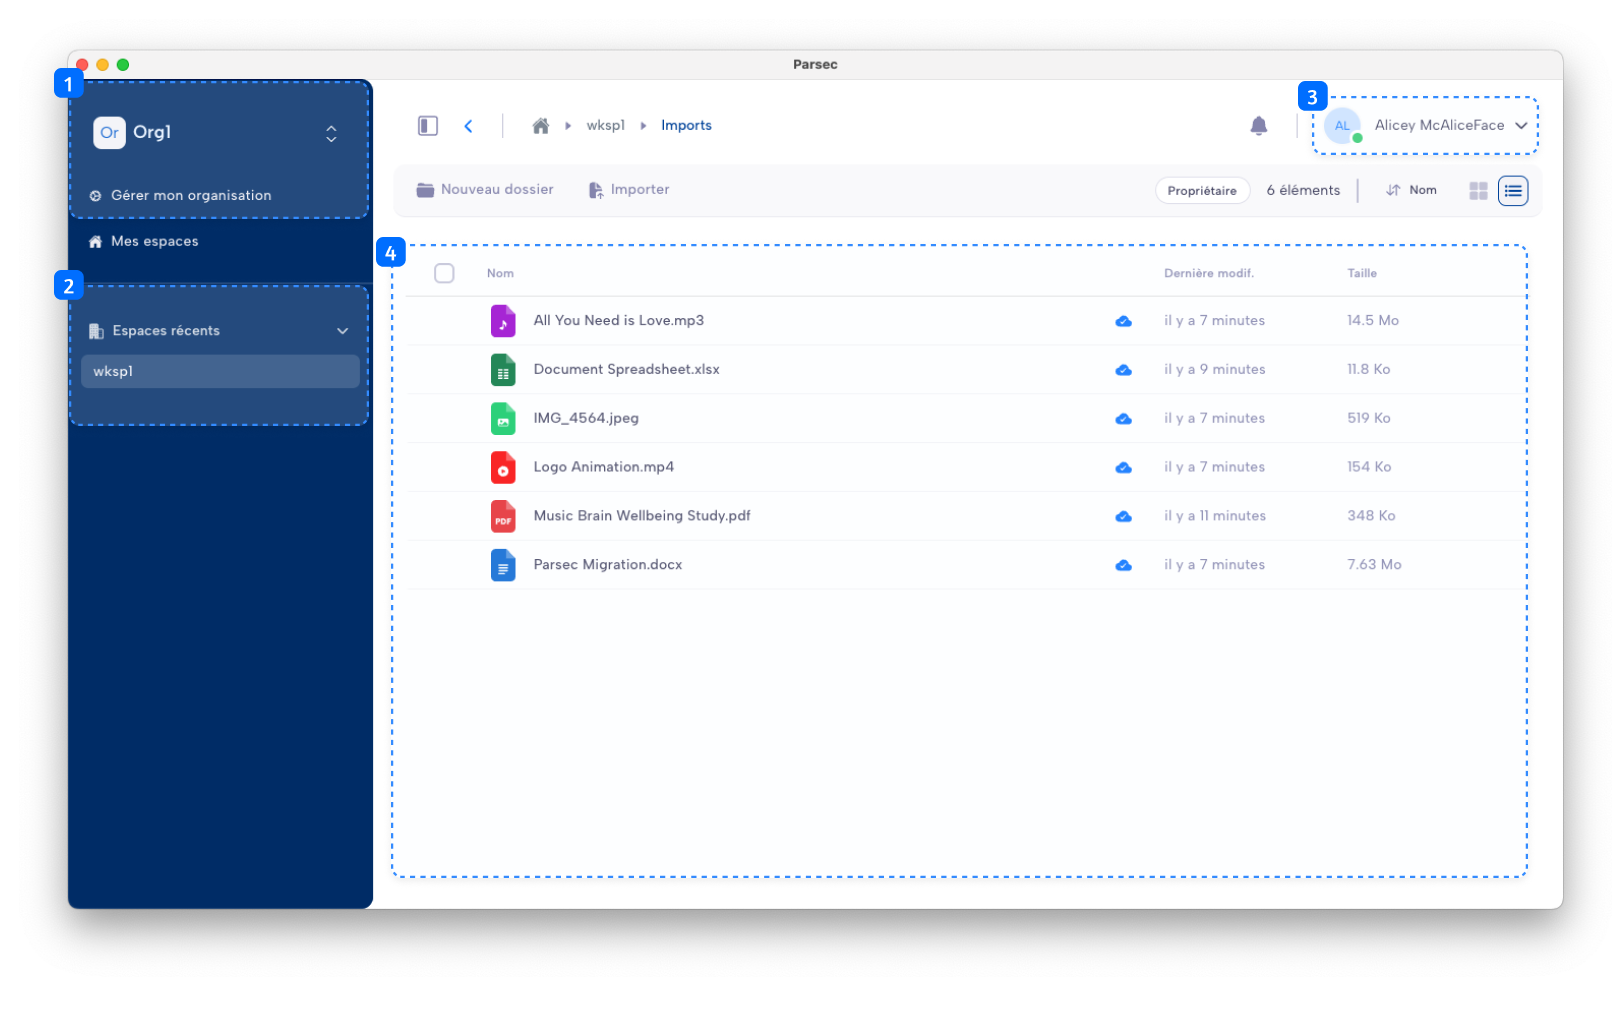
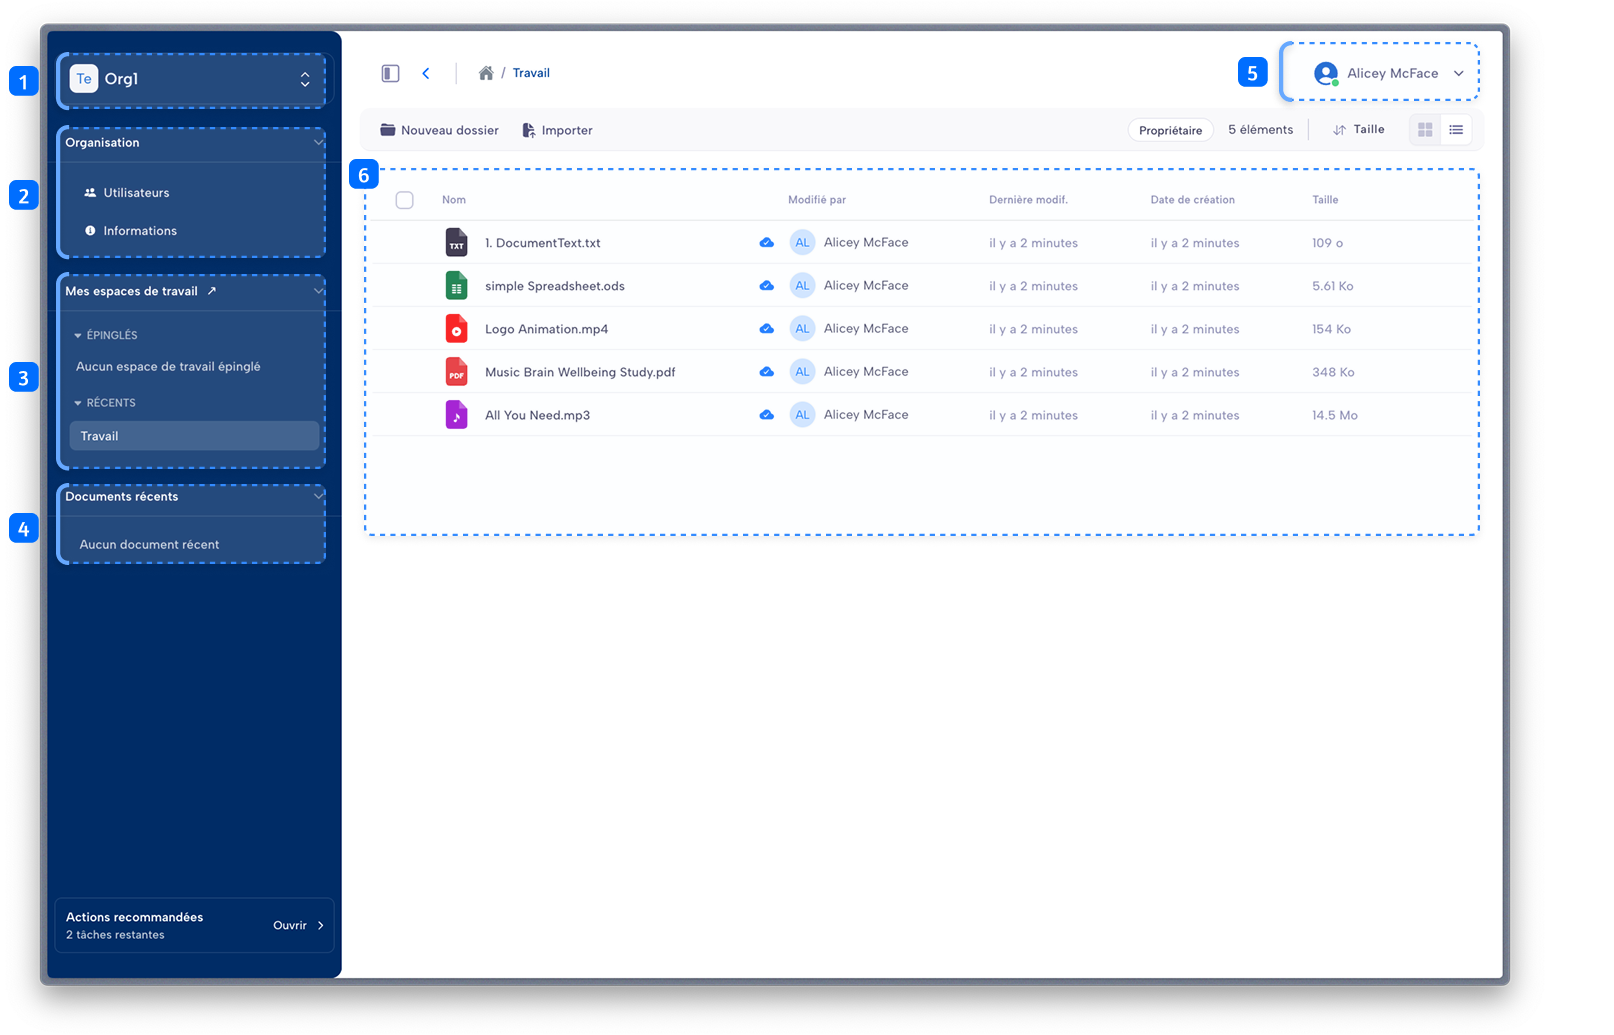
[MS] Updated documentation for elements (text and screenshots) including sidebar component

diff --git a/docs/userguide/manage_organization.rst b/docs/userguide/manage_organization.rst
@@ -17,10 +17,10 @@ connected to the Parsec server at the same time.
 Invite a user
 -------------
 
-1. Go to ``Manage my organization``
+1. In the sidebar, go to ``Users``
 2. Click ``Invite a user`` and enter its email address to send an **invitation link**
 
-  - A yellow button will appear at the top, informing you that you have an
+  - A blue button will appear at the top, informing you that you have an
     invitation waiting to be validated.
 
   .. image:: screens/new_user_invitation_sent.png
@@ -45,7 +45,7 @@ specially required when:
 - the user device has been compromised or lost
 - the user is no longer part of the organization
 
-1. Go to ``Manage my organization``
+1. In the sidebar, go to ``Users``
 2. Select ``Revoke this user``.
 3. Click ``Revoke`` to confirm (**this action cannot be undone**)
 
@@ -105,7 +105,7 @@ This profile allows a user to:
 Change the profile
 ------------------
 
-If you need to change the profile of a user, go to ``Manage my organization`` in the upper-left corner. Either select the user or right-click on them and select ``Change profile``.
+If you need to change the profile of a user, go to ``Users`` (in the sidebar) in the upper-left corner. Either select the user or right-click on them and select ``Change profile``.
 
 .. image:: screens/change_profile.png
     :align: center

diff --git a/docs/userguide/parsec_workspaces.rst b/docs/userguide/parsec_workspaces.rst
@@ -146,7 +146,7 @@ Copy user roles to another user
 
 You can assign the same roles to multiple users by copying roles from one user to another.
 
-As an example, Mallory is an intern in your company with whom you have shared 4 workspaces: 2 as a `Reader`, 2 as a `Contributor`. Bob is a newly hired intern, and you want to share the same workspaces (and roles) you shared with Mallory. Instead of sharing each workspace one by one, go to ``Manage my organization`` in the top left corner and access the list of users. Right-click on Mallory, and select ``Copy workspace roles to...``.
+As an example, Mallory is an intern in your company with whom you have shared 4 workspaces: 2 as a `Reader`, 2 as a `Contributor`. Bob is a newly hired intern, and you want to share the same workspaces (and roles) you shared with Mallory. Instead of sharing each workspace one by one, go to ``User`` (in the sidebar) in the top left corner and access the list of users. Right-click on Mallory, and select ``Copy workspace roles to...``.
 
 .. image:: screens/batch_workspace_context_menu.png
     :align: center

diff --git a/docs/userguide/first_steps.rst b/docs/userguide/first_steps.rst
@@ -11,10 +11,14 @@ Welcome to Parsec! Here's a brief overview of the user interface.
     :align: center
     :alt: Parsec graphical user interface overview
 
-\1. **Organization section**: select your organization and access your organization details (if allowed by your profile).
+1. **Organization section**: select your organization.
 
-\2. **Recent workspaces and documents**: list of workspaces and documents you have accessed recently.
+2. **Organization details**: access your organization details (if allowed by your profile).
 
-\3. **Main menu**: access application settings and your user profile.
+3. **Workspace selection**: list of workspaces you added to favorite and those you have accessed recently.
 
-\4. **Workspace section**: access a workspace and its documents.
+4. **Recent documents**: list of documents you have accessed recently.
+
+5. **Main menu**: access application settings and your user profile.
+
+6. **Workspace and document section**: access a workspace and its documents.

diff --git a/docs/userguide/manage_files.rst b/docs/userguide/manage_files.rst
@@ -166,7 +166,7 @@ Parsec preview can be disabled in the desktop application settings.
 .. image:: screens/files/disable_viewers.png
     :align: center
     :alt: Disable viewers screenshot
-    :width: 400
+    :width: 800
 
 Recent documents
 ^^^^^^^^^^^^^^^^
